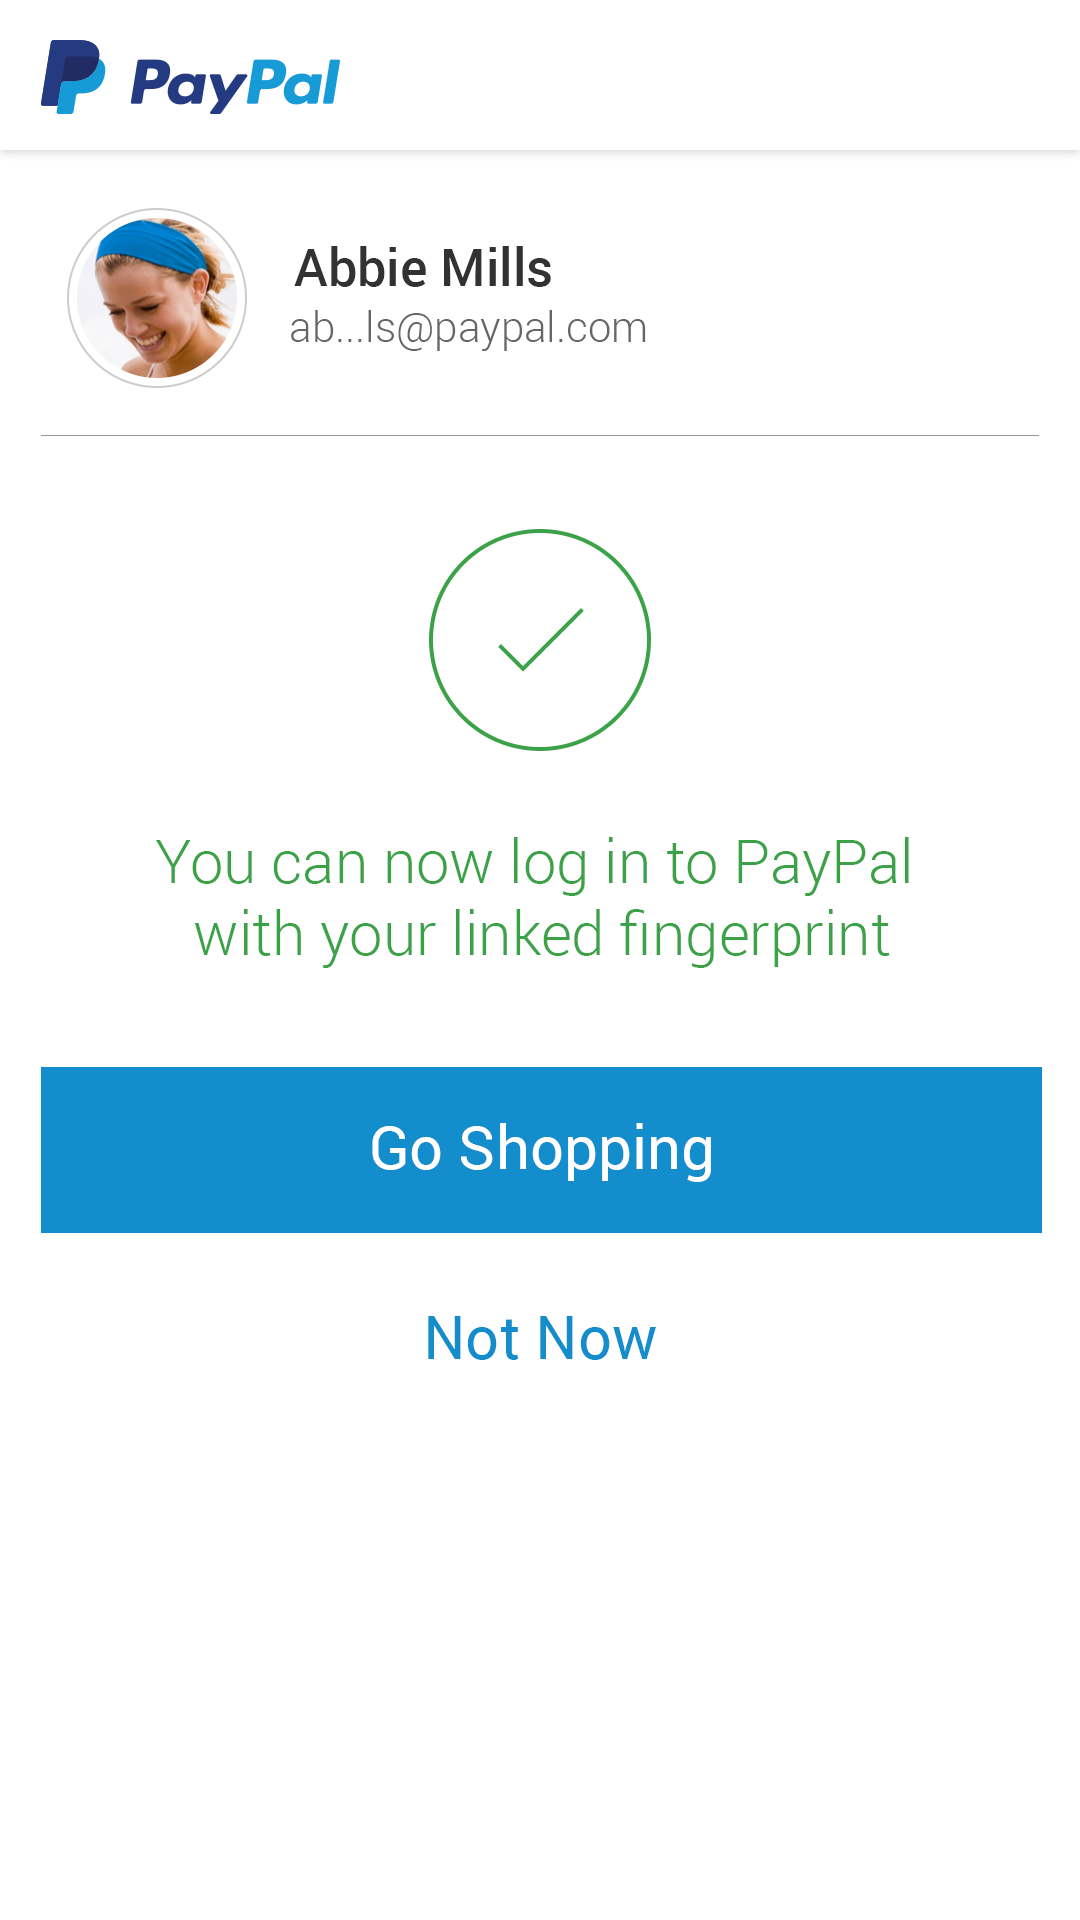
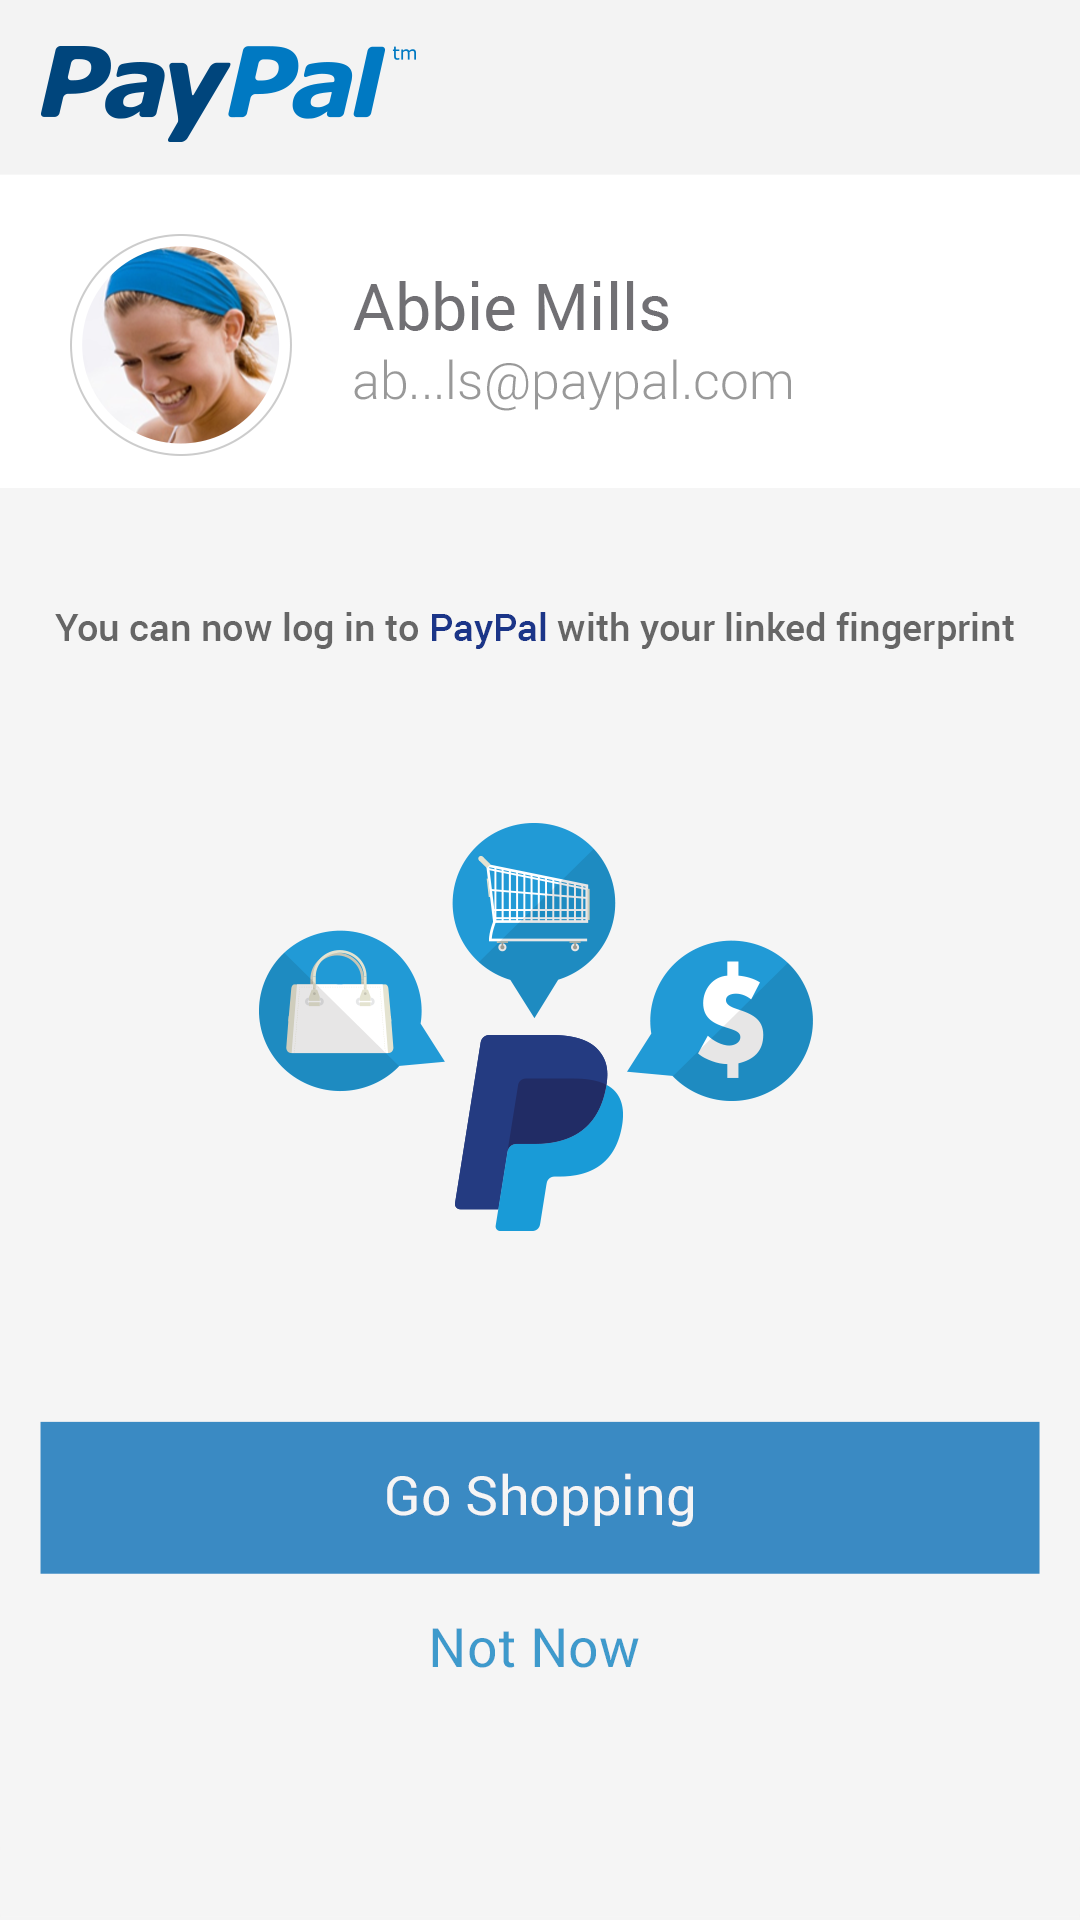
update confirmation page

diff --git a/www/index.html b/www/index.html
@@ -105,8 +105,8 @@
 				</dd>
 
 				<dd id="confirm">
-					<a onclick="navigator.app.loadUrl('https://www.paypal-pages.com/samsunggalaxys5/sg/index.html#section23', { openExternal:true });" style="width: 333px;height: 56px;position: absolute;bottom: 228px;left: 13px;"></a>
-					<a href="index.html" style="width: 110px;height: 37px;position: absolute;bottom: 173px;left: 122px;"></a>											
+					<a onclick="navigator.app.loadUrl('https://www.paypal-pages.com/samsunggalaxys5/sg/index.html#section23', { openExternal:true });" style="width: 333px;height: 51px;position: absolute;bottom: 114px;left: 13px;"></a>
+					<a href="index.html" style="width: 110px;height: 37px;position: absolute;bottom: 70px;left: 122px;"></a>											
 				</dd>
 			</dl>
 		</section>
